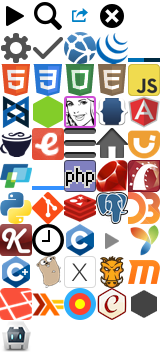
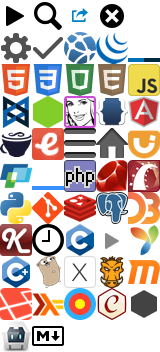
Add Markdown documentation

Changed region(s): [[0.1875, 0.9062, 0.4062, 1.0]]

diff --git a/assets/stylesheets/global/_icons.scss b/assets/stylesheets/global/_icons.scss
@@ -62,3 +62,4 @@
 ._icon-chai:before          { background-position: -3rem -9rem; }
 ._icon-sinon:before         { background-position: -4rem -9rem; }
 ._icon-cordova:before       { background-position: 0 -10rem; }
+._icon-markdown:before      { background-position: -1rem -10rem; }

diff --git a/assets/stylesheets/application.css.scss b/assets/stylesheets/application.css.scss
@@ -45,6 +45,7 @@
         'pages/laravel',
         'pages/less',
         'pages/lodash',
+        'pages/markdown',
         'pages/maxcdn',
         'pages/mdn',
         'pages/moment',

diff --git a/assets/stylesheets/pages/_markdown.scss b/assets/stylesheets/pages/_markdown.scss
@@ -1,0 +1,7 @@
+._markdown {
+  padding-left: 1rem;
+
+  h1, h2, h3, h1 + ul { margin-left: -1rem; }
+  h2 { @extend %block-heading; }
+  h3 { @extend %block-label, %label-blue; }
+}

diff --git a/lib/docs/filters/markdown/entries.rb b/lib/docs/filters/markdown/entries.rb
@@ -1,0 +1,19 @@
+module Docs
+  class Markdown
+    class EntriesFilter < Docs::EntriesFilter
+      def additional_entries
+        type = nil
+
+        doc.children.each_with_object [] do |node, entries|
+          if node.name == 'h2'
+            type = node.content.strip
+          elsif node.name == 'h3'
+            next if type == 'Overview'
+            name = node.content.strip
+            entries << [name, node['id'], type]
+          end
+        end
+      end
+    end
+  end
+end

diff --git a/lib/docs/scrapers/markdown.rb b/lib/docs/scrapers/markdown.rb
@@ -1,0 +1,17 @@
+module Docs
+  class Markdown < UrlScraper
+    self.name = 'Markdown'
+    self.type = 'markdown'
+    self.base_url = 'http://daringfireball.net/projects/markdown/syntax'
+
+    html_filters.push 'markdown/clean_html', 'markdown/entries'
+
+    options[:container] = '.article'
+    options[:skip_links] = true
+
+    options[:attribution] = <<-HTML
+      &copy; 2004 John Gruber<br>
+      Licensed under the BSD License.
+    HTML
+  end
+end

diff --git a/lib/docs/filters/markdown/clean_html.rb b/lib/docs/filters/markdown/clean_html.rb
@@ -1,0 +1,17 @@
+module Docs
+  class Markdown
+    class CleanHtmlFilter < Filter
+      def call
+        at_css('h1').content = 'Markdown'
+
+        css('#ProjectSubmenu', 'hr').remove
+
+        css('pre > code').each do |node|
+          node.before(node.children).remove
+        end
+
+        doc
+      end
+    end
+  end
+end
